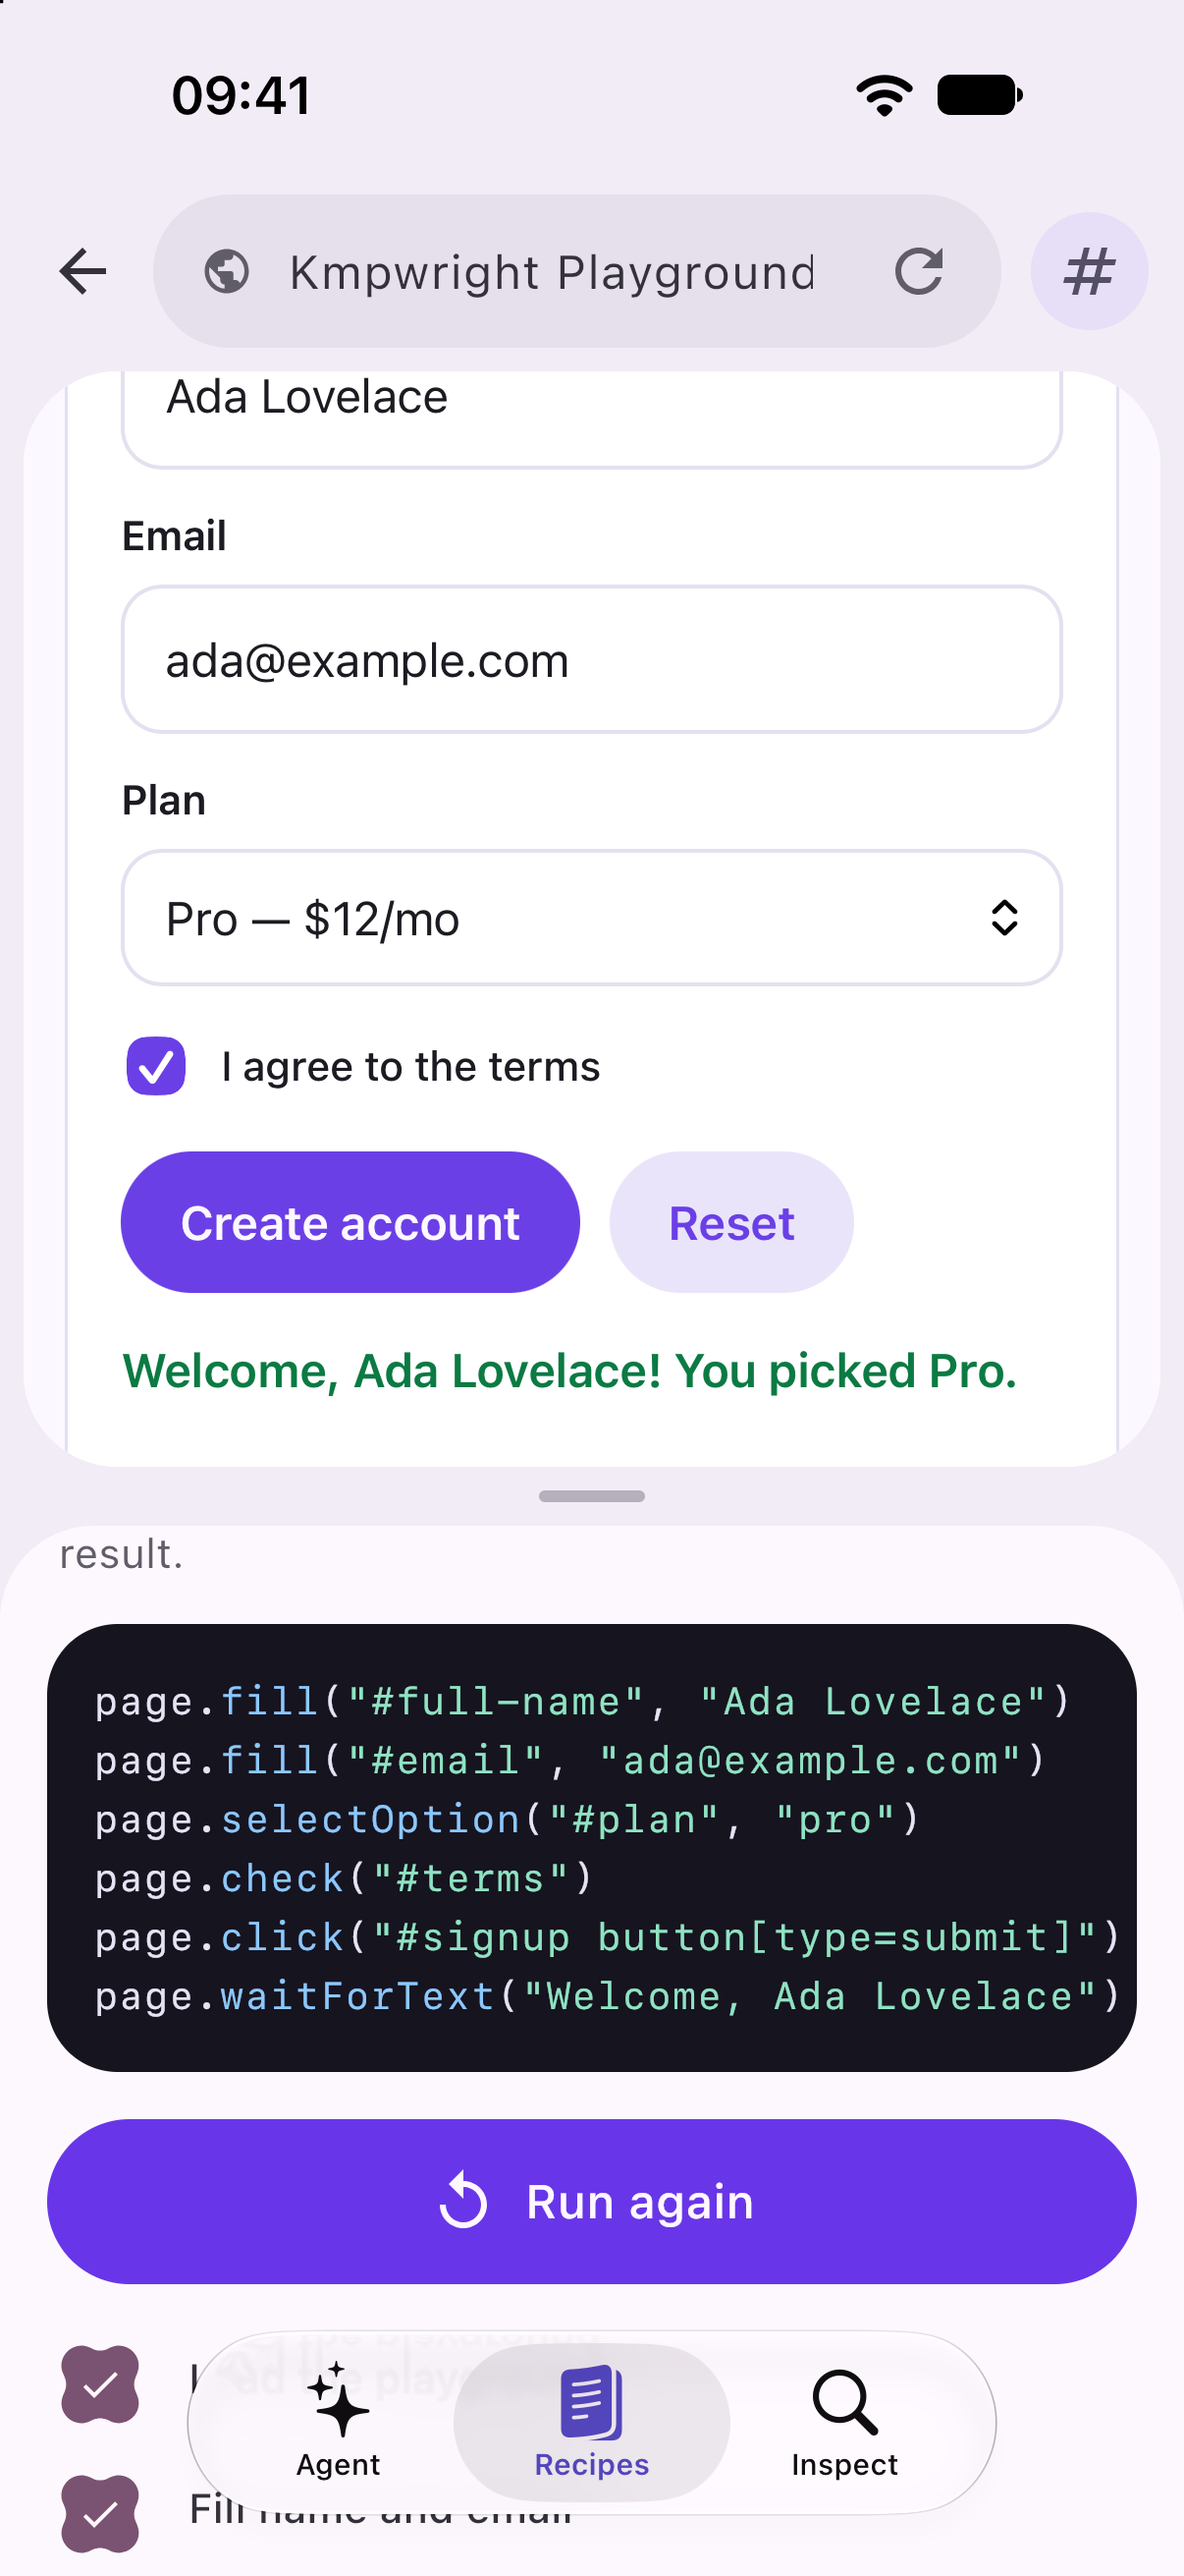
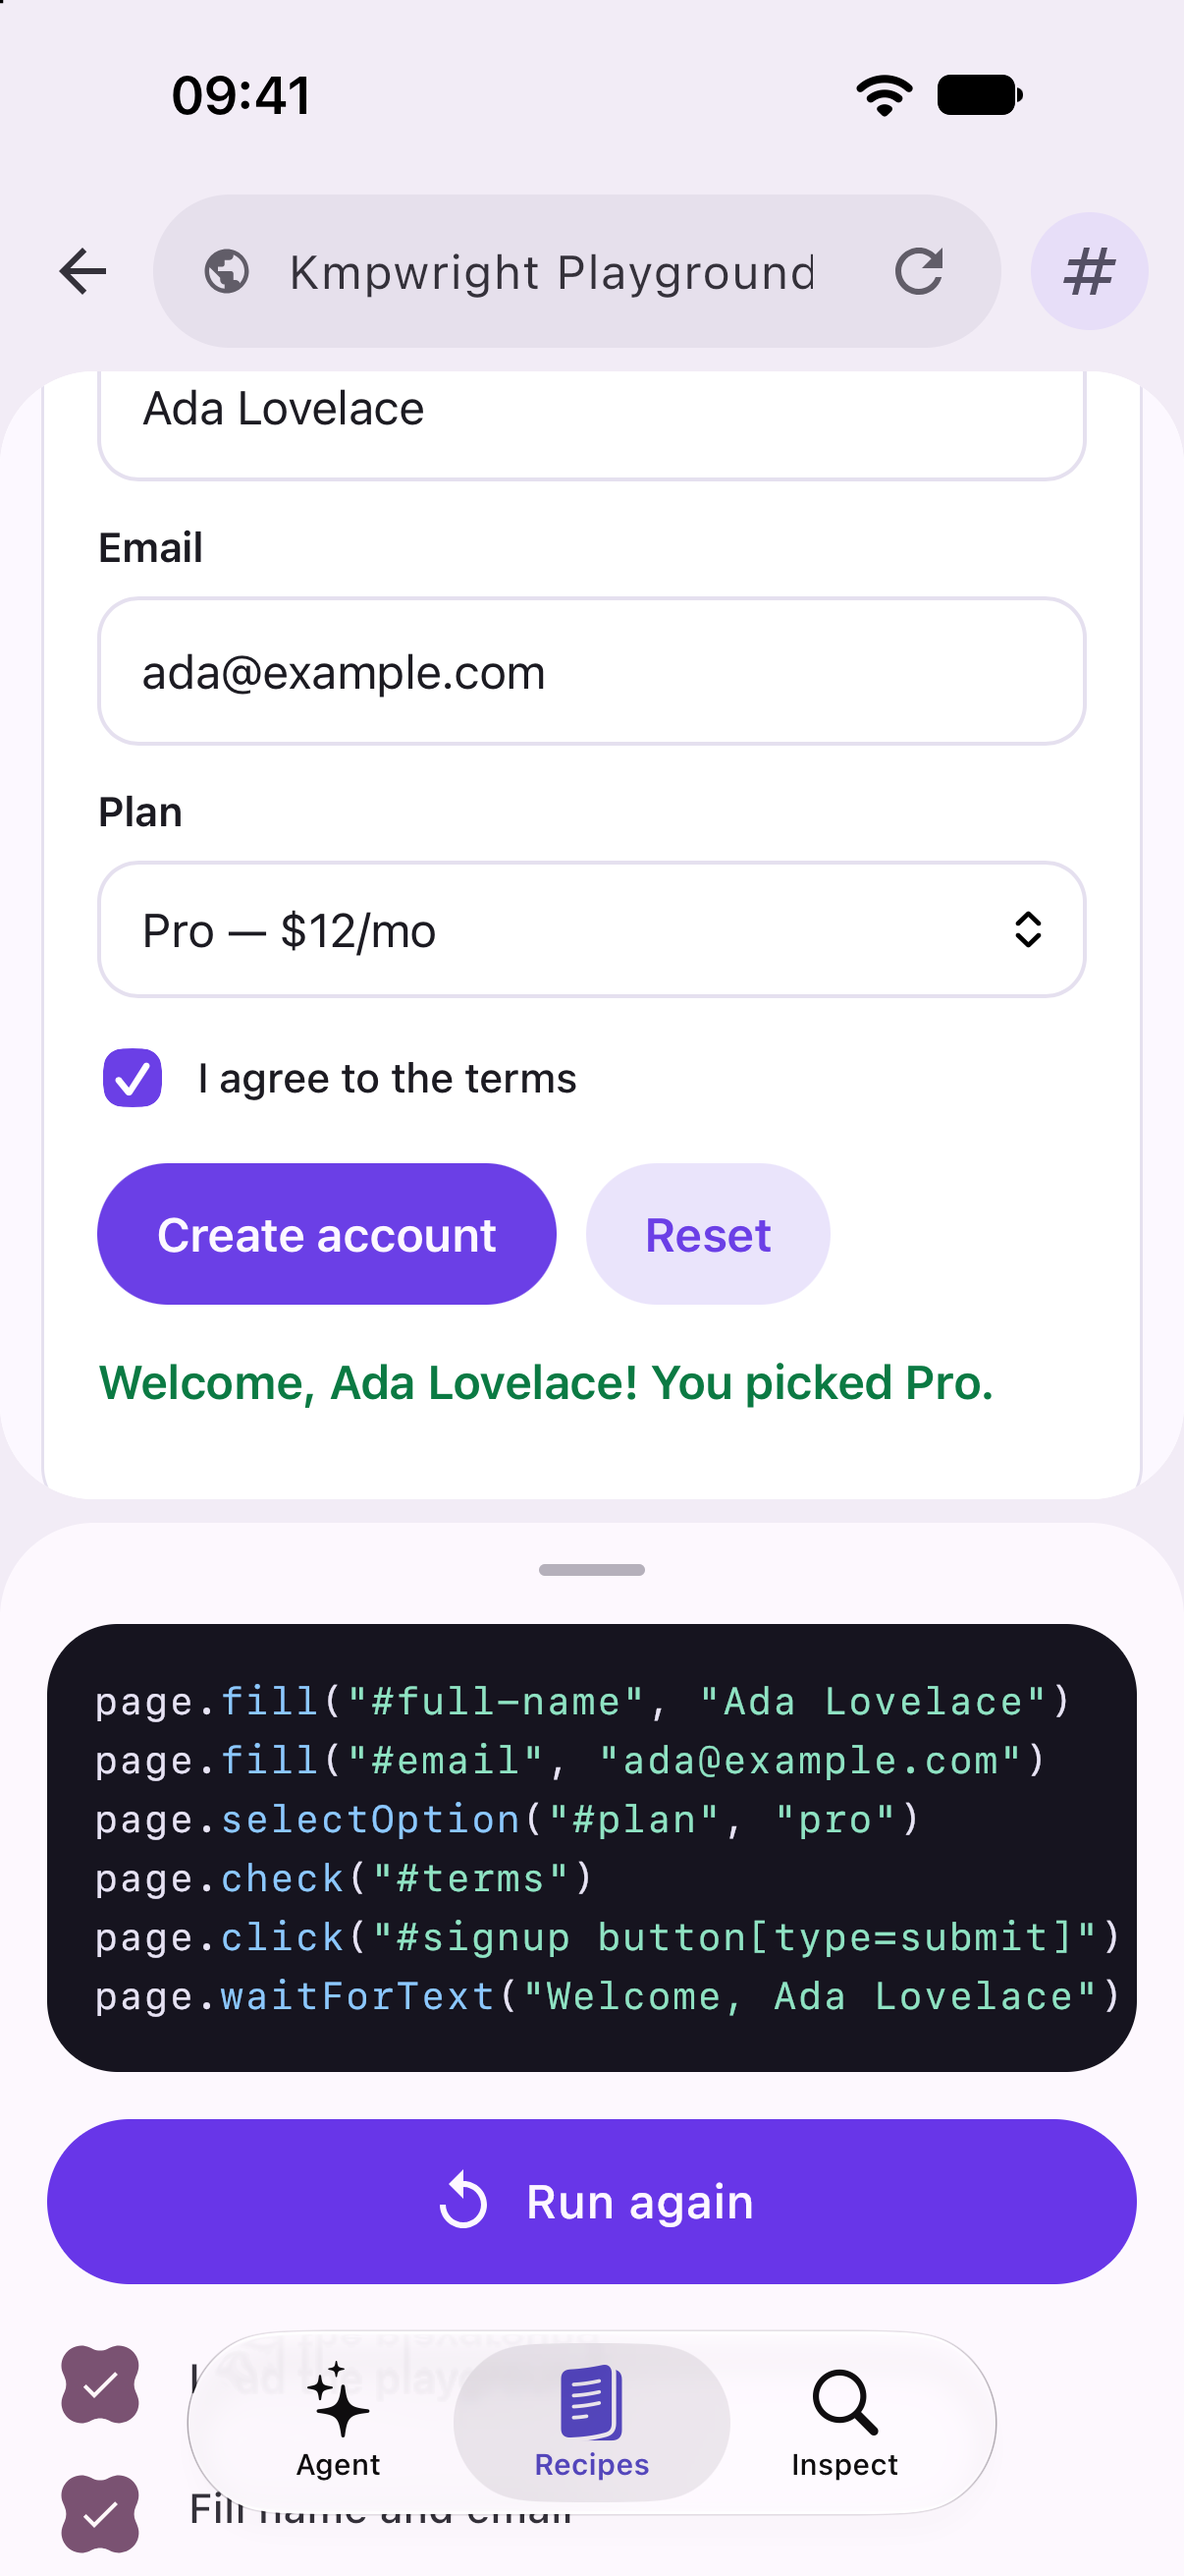
Sample: one grabber for the Android sheet and the iOS split, edge-to-edge page on phones; iOS-only header again

diff --git a/kmpwright-example-shared/src/commonMain/kotlin/com/bernaferrari/kmpwright/example/App.kt b/kmpwright-example-shared/src/commonMain/kotlin/com/bernaferrari/kmpwright/example/App.kt
@@ -11,6 +11,8 @@ import androidx.compose.animation.shrinkVertically
 import androidx.compose.animation.togetherWith
 import androidx.compose.foundation.background
 import androidx.compose.foundation.gestures.Orientation
+import androidx.compose.foundation.gestures.awaitEachGesture
+import androidx.compose.foundation.gestures.awaitFirstDown
 import androidx.compose.foundation.gestures.draggable
 import androidx.compose.foundation.gestures.rememberDraggableState
 import androidx.compose.foundation.layout.Arrangement
@@ -41,7 +43,6 @@ import androidx.compose.material.icons.automirrored.filled.MenuBook
 import androidx.compose.material.icons.filled.AutoAwesome
 import androidx.compose.material.icons.filled.CheckCircle
 import androidx.compose.material.icons.filled.Error
-import androidx.compose.material3.BottomSheetDefaults
 import androidx.compose.material3.BottomSheetScaffold
 import androidx.compose.material3.ExperimentalMaterial3Api
 import androidx.compose.material3.ExperimentalMaterial3ExpressiveApi
@@ -73,6 +74,8 @@ import androidx.compose.ui.Modifier
 import androidx.compose.ui.draw.clip
 import androidx.compose.ui.graphics.vector.ImageVector
 import androidx.compose.ui.hapticfeedback.HapticFeedbackType
+import androidx.compose.ui.input.pointer.PointerEventPass
+import androidx.compose.ui.input.pointer.pointerInput
 import androidx.compose.ui.layout.onSizeChanged
 import androidx.compose.ui.platform.LocalHapticFeedback
 import androidx.compose.ui.semantics.contentDescription
@@ -264,7 +267,7 @@ private fun PhoneStudio(
             sheetPeekHeight = peek,
             sheetContainerColor = MaterialTheme.colorScheme.surface,
             sheetShadowElevation = 12.dp,
-            sheetDragHandle = { BottomSheetDefaults.DragHandle(height = 4.dp) },
+            sheetDragHandle = { Grabber() },
             containerColor = MaterialTheme.colorScheme.surfaceContainer,
             sheetContent = {
                 Column(Modifier.fillMaxHeight(0.92f).windowInsetsPadding(WindowInsets.navigationBars)) {
@@ -287,7 +290,8 @@ private fun PhoneStudio(
                 state,
                 platformContext,
                 refLongPress(state) { onDestination(Destination.Agent); expand() },
-                Modifier
+                sideInset = 0.dp,
+                modifier = Modifier
                     .fillMaxSize()
                     .windowInsetsPadding(WindowInsets.safeDrawing.only(WindowInsetsSides.Top + WindowInsetsSides.Horizontal))
                     // Keep the whole page visible above the collapsed sheet.
@@ -374,16 +378,16 @@ internal fun NativeHostedStudio(
                         .windowInsetsPadding(WindowInsets.safeDrawing.only(WindowInsetsSides.Top + WindowInsetsSides.Horizontal))
                         .onSizeChanged { height = it.height.coerceAtLeast(1) }
                 ) {
-                    BrowserPane(state, platformContext, longPress, Modifier.fillMaxWidth().weight(state.pageSplit))
-                    SplitGrabber(onDrag = { delta -> state.pageSplit = (state.pageSplit + delta / height).coerceIn(0.2f, 0.8f) })
+                    BrowserPane(state, platformContext, longPress, Modifier.fillMaxWidth().weight(state.pageSplit), sideInset = 0.dp)
                     Surface(
-                        modifier = Modifier.fillMaxWidth().weight(1f - state.pageSplit),
+                        modifier = Modifier.fillMaxWidth().weight(1f - state.pageSplit).padding(top = 8.dp),
                         shape = MaterialTheme.shapes.extraLarge.copy(bottomStart = CornerSize(0.dp), bottomEnd = CornerSize(0.dp)),
                         color = MaterialTheme.colorScheme.surface,
                     ) {
-                        CompositionLocalProvider(LocalPanelInsets provides PaddingValues(top = 16.dp, bottom = bottomInset)) {
+                        CompositionLocalProvider(LocalPanelInsets provides PaddingValues(top = 0.dp, bottom = bottomInset)) {
                             Column(verticalArrangement = Arrangement.Top) {
-                                ActivityBanner(state, Modifier.padding(start = 16.dp, end = 16.dp, top = 16.dp))
+                                Grabber(onDrag = { delta -> state.pageSplit = (state.pageSplit + delta / height).coerceIn(0.2f, 0.8f) })
+                                ActivityBanner(state, Modifier.padding(horizontal = 16.dp))
                                 panel(Modifier.weight(1f))
                             }
                         }
@@ -394,10 +398,14 @@ internal fun NativeHostedStudio(
     }
 }
 
-/** A split-screen divider: drag the pill to give the page or the panel more room. It perks up while held. */
+/**
+ * The panel's handle, the same on Android (the sheet's drag handle) and iOS (the split divider).
+ * The pill widens and turns primary while pressed. [onDrag] is set where the grabber itself
+ * resizes something; the Android sheet handles its own drag.
+ */
 @OptIn(ExperimentalMaterial3ExpressiveApi::class)
 @Composable
-private fun SplitGrabber(onDrag: (Float) -> Unit) {
+internal fun Grabber(modifier: Modifier = Modifier, onDrag: ((Float) -> Unit)? = null) {
     val haptics = LocalHapticFeedback.current
     var held by remember { mutableStateOf(false) }
     val spatial = MaterialTheme.motionScheme.fastSpatialSpec<Dp>()
@@ -408,13 +416,22 @@ private fun SplitGrabber(onDrag: (Float) -> Unit) {
         MaterialTheme.motionScheme.fastEffectsSpec(),
     )
     Box(
-        Modifier.fillMaxWidth().height(20.dp)
-            .draggable(
-                rememberDraggableState(onDrag),
-                Orientation.Vertical,
-                startDragImmediately = true,
-                onDragStarted = { held = true; haptics.performHapticFeedback(HapticFeedbackType.SegmentTick) },
-                onDragStopped = { held = false },
+        modifier.fillMaxWidth().height(GRABBER_HEIGHT)
+            // Watch presses on the initial pass without consuming them, so a parent sheet still drags.
+            .pointerInput(Unit) {
+                awaitEachGesture {
+                    awaitFirstDown(requireUnconsumed = false, pass = PointerEventPass.Initial)
+                    held = true
+                    haptics.performHapticFeedback(HapticFeedbackType.SegmentTick)
+                    do {
+                        val event = awaitPointerEvent(PointerEventPass.Initial)
+                    } while (event.changes.any { it.pressed })
+                    held = false
+                }
+            }
+            .then(
+                if (onDrag == null) Modifier
+                else Modifier.draggable(rememberDraggableState(onDrag), Orientation.Vertical, startDragImmediately = true)
             )
             .semantics { contentDescription = "Resize page and panel" },
         contentAlignment = Alignment.Center,
@@ -422,6 +439,8 @@ private fun SplitGrabber(onDrag: (Float) -> Unit) {
         Box(Modifier.size(width = width, height = thickness).clip(CircleShape).background(color))
     }
 }
+
+private val GRABBER_HEIGHT = 32.dp
 
 /** Switcher (≈48dp) + composer and suggestions (≈118dp) + handle and spacing. */
 private val PEEK_HEIGHT = 220.dp

diff --git a/docs/assets/readme/src/header.html b/docs/assets/readme/src/header.html
@@ -9,43 +9,52 @@
   body {
     font-family: "Geist", system-ui, sans-serif; color: #1b1530; position: relative;
     background:
-      radial-gradient(1400px 700px at 50% 100%, rgba(127, 82, 255, 0.22), transparent 70%),
-      radial-gradient(900px 500px at 50% 0%, rgba(200, 17, 226, 0.06), transparent 70%),
+      radial-gradient(1100px 800px at 75% 45%, rgba(127, 82, 255, 0.20), transparent 70%),
+      radial-gradient(800px 600px at 0% 0%, rgba(200, 17, 226, 0.07), transparent 70%),
       #fbf9ff;
   }
 
-  .top { position: absolute; top: 74px; left: 0; right: 0; display: flex; flex-direction: column; align-items: center; }
-  .brand { display: flex; align-items: center; gap: 26px; }
-  .brand img { width: 108px; height: 108px; border-radius: 26px; box-shadow: 0 10px 28px rgba(80, 40, 160, 0.18), 0 0 0 1.5px rgba(127, 82, 255, 0.12); }
-  .word { font-size: 104px; line-height: 1; letter-spacing: -0.045em; }
+  .copy { position: absolute; left: 130px; top: 0; bottom: 0; width: 800px; display: flex; flex-direction: column; justify-content: center; }
+  .brand { display: flex; align-items: center; gap: 28px; }
+  .brand img { width: 124px; height: 124px; border-radius: 30px; box-shadow: 0 12px 32px rgba(80, 40, 160, 0.20), 0 0 0 1.5px rgba(127, 82, 255, 0.12); }
+  .word { font-size: 118px; line-height: 1; letter-spacing: -0.045em; }
   .word b { font-weight: 700; }
   .word span { font-weight: 380; }
-  .tag { margin-top: 30px; font-size: 44px; font-weight: 450; letter-spacing: -0.02em; color: #6b6382; }
-  .tag b { font-weight: 600; color: #1b1530; }
+  .tag { margin-top: 52px; font-size: 48px; line-height: 1.18; font-weight: 600; letter-spacing: -0.03em; }
+  .tag span { color: #6b6382; font-weight: 450; }
+  .chips { margin-top: 48px; display: flex; gap: 14px; }
+  .chip {
+    display: flex; align-items: center; gap: 12px; padding: 14px 26px; border-radius: 999px;
+    background: rgba(255,255,255,0.75); border: 1.5px solid rgba(60, 30, 120, 0.10);
+    font-size: 28px; font-weight: 500; color: #3b3352;
+  }
+  .chip i { width: 12px; height: 12px; border-radius: 50%; display: block; }
 
-  /* Frames follow each screen's real ratio: Galaxy S25 1080 x 2340, iPad Pro 11" 2420 x 1668, iPhone 18 Pro 1206 x 2622. */
+  /* Frames are sized from each screen's real ratio: iPad Pro 11" 2420 x 1668, iPhone 18 Pro 1206 x 2622. */
   .device {
     position: absolute; background: linear-gradient(160deg, #ffffff, #ece8f4);
-    box-shadow: 0 0 0 1.5px rgba(60, 30, 120, 0.12), 0 40px 100px rgba(60, 30, 120, 0.20), 0 8px 24px rgba(60, 30, 120, 0.08);
+    box-shadow: 0 0 0 1.5px rgba(60, 30, 120, 0.12), 0 40px 100px rgba(60, 30, 120, 0.18), 0 8px 24px rgba(60, 30, 120, 0.08);
   }
-  .device img { display: block; box-shadow: 0 0 0 1px rgba(60, 30, 120, 0.10); }
-  .android { left: 190px; top: 380px; padding: 9px; border-radius: 50px; }
-  .android img { width: 430px; height: 932px; border-radius: 41px; }
-  .ipad { left: 680px; top: 360px; padding: 12px; border-radius: 46px; }
-  .ipad img { width: 1040px; height: 717px; border-radius: 34px; }
-  .iphone { left: 1770px; top: 380px; padding: 9px; border-radius: 70px; }
-  .iphone img { width: 430px; height: 935px; border-radius: 61px; }
+  .device img { display: block; width: 100%; height: 100%; box-shadow: 0 0 0 1px rgba(60, 30, 120, 0.10); }
+  .ipad { left: 1060px; top: 165px; padding: 12px; border-radius: 48px; }
+  .ipad img { width: 1250px; height: 862px; border-radius: 36px; }
+  .iphone { left: 930px; top: 330px; padding: 9px; border-radius: 69px; box-shadow: 0 0 0 1.5px rgba(60, 30, 120, 0.12), 0 40px 90px rgba(60, 30, 120, 0.28), 0 8px 24px rgba(60, 30, 120, 0.10); }
+  .iphone img { width: 404px; height: 878px; border-radius: 60px; }
 </style>
 <body>
-  <div class="top">
+  <div class="copy">
     <div class="brand">
       <img src="../../../brand/icon.png" alt="">
       <div class="word"><b>KMP</b><span>wright</span></div>
     </div>
-    <div class="tag">One Kotlin workflow. <b>The same result on Android, iOS and the JVM.</b></div>
+    <div class="tag">One Kotlin workflow.<br><span>The same result on every platform.</span></div>
+    <div class="chips">
+      <div class="chip"><i style="background:#7F52FF"></i>Android</div>
+      <div class="chip"><i style="background:#C811E2"></i>iOS</div>
+      <div class="chip"><i style="background:#FF7A45"></i>JVM</div>
+    </div>
   </div>
 
-  <div class="device android"><img src="android.png" alt=""></div>
   <div class="device ipad"><img src="ipad.png" alt=""></div>
   <div class="device iphone"><img src="ios.png" alt=""></div>
 </body>

diff --git a/kmpwright-example-shared/src/commonMain/kotlin/com/bernaferrari/kmpwright/example/BrowserPane.kt b/kmpwright-example-shared/src/commonMain/kotlin/com/bernaferrari/kmpwright/example/BrowserPane.kt
@@ -68,6 +68,7 @@ import androidx.compose.ui.text.input.ImeAction
 import androidx.compose.ui.text.input.KeyboardType
 import androidx.compose.ui.text.style.TextOverflow
 import androidx.compose.ui.layout.layout
+import androidx.compose.ui.unit.Dp
 import androidx.compose.ui.unit.dp
 import androidx.compose.ui.unit.sp
 import com.bernaferrari.kmpwright.core.PlatformContext
@@ -80,13 +81,15 @@ internal fun BrowserPane(
     platformContext: PlatformContext,
     onRefLongPress: (RefBadge) -> Unit,
     modifier: Modifier = Modifier,
+    /** 0 on phones, where the page spans the width like the panel below it. */
+    sideInset: Dp = 8.dp,
 ) {
     Column(modifier) {
         AddressBar(state, Modifier.padding(start = 4.dp, end = 8.dp, top = 4.dp, bottom = 8.dp))
         Box(
             Modifier
                 .fillMaxSize()
-                .padding(horizontal = 8.dp)
+                .padding(horizontal = sideInset)
                 .clip(MaterialTheme.shapes.extraLarge)
                 .background(MaterialTheme.colorScheme.surfaceContainerLowest)
         ) {

diff --git a/README.md b/README.md
@@ -1,5 +1,5 @@
 <h1 align="center">
-  <a href="https://kmpwright.vercel.app"><img src="docs/assets/readme/header.jpg" width="100%" alt="KMPwright: one Kotlin workflow, the same finished sign-up form on an Android phone, an iPad and an iPhone"></a>
+  <a href="https://kmpwright.vercel.app"><img src="docs/assets/readme/header.jpg" width="100%" alt="KMPwright: one Kotlin workflow, the same finished sign-up form on an iPad and an iPhone"></a>
 </h1>
 
 <p align="center"><b>Browser automation for Kotlin Multiplatform.</b><br>
